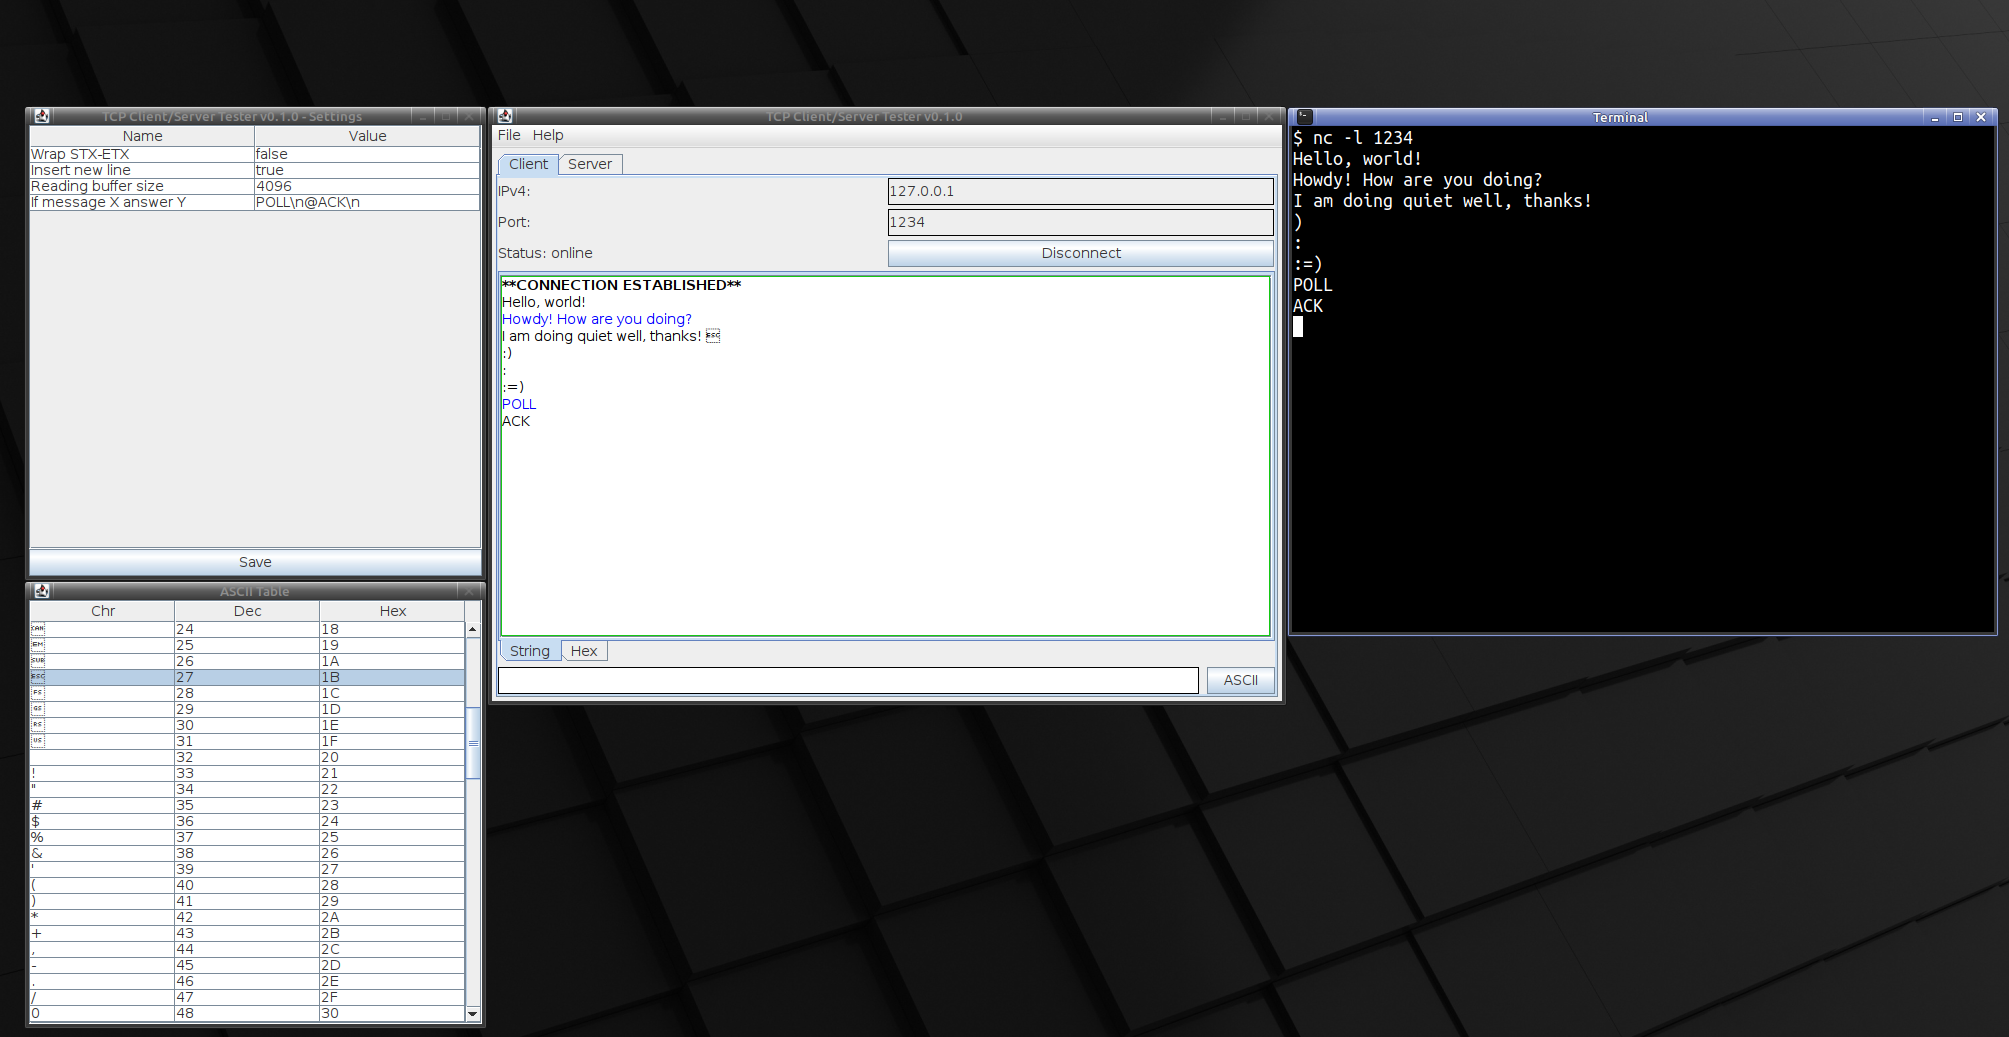
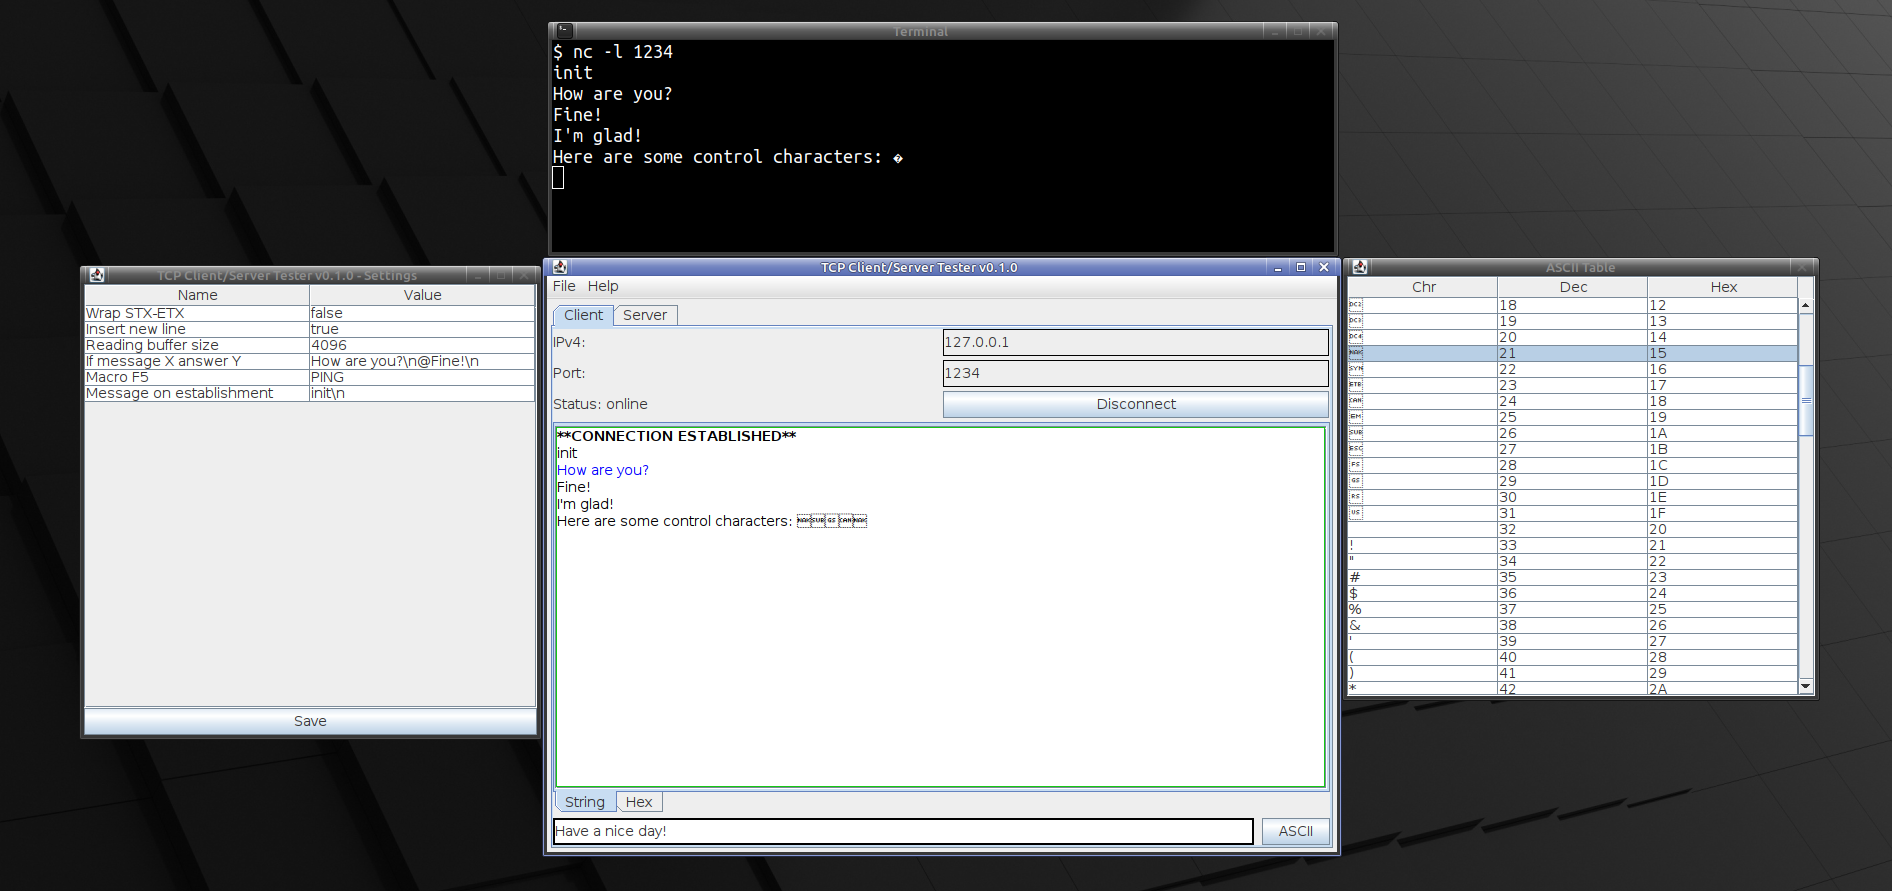
macro and message on connection establishment

diff --git a/src/MainWindow.java b/src/MainWindow.java
@@ -300,6 +300,22 @@ public final class MainWindow {
 
                     hexOutputArea.setBorder(BorderFactory.createLineBorder(new Color(20, 200, 20), 1));
                     appendToPane(hexOutputArea, "**CONNECTION ESTABLISHED**\n", Color.BLACK, true);
+
+                    if (!Settings.msgOnConEst.isEmpty()) {
+                        final String msgOnConEstMod = Settings.msgOnConEst.replaceAll("\\\\n", "\n");
+
+                        clientConHandler.send(msgOnConEstMod);
+                        appendToPane(outputArea, msgOnConEstMod, Color.BLACK, false);
+
+                        for (final char c : msgOnConEstMod.toCharArray()) {
+                            final String hex = String.format("%02X ", new BigInteger(1, new byte[]{(byte) c}));
+                            appendToPane(hexOutputArea, hex, Color.BLACK, false);
+
+                            if (hex.strip().equals("0A")) { // note(nschultz): new line
+                                appendToPane(hexOutputArea, "\n", Color.BLACK, false);
+                            }
+                        }
+                    }
                 }
                 @Override public void onIncomingData(final String data) {
                     appendToPane(outputArea, data, Color.BLUE, false);
@@ -393,6 +409,10 @@ public final class MainWindow {
                 @Override public void keyPressed(final KeyEvent evt) {
                     if (evt.getKeyCode() == KeyEvent.VK_UP) {
                         inputField.setText(MainWindow.this.lastMessage);
+                    } else if (evt.getKeyCode() == KeyEvent.VK_F5) {
+                        // todo(nschultz): This might be a bit hacky
+                        inputField.setText(Settings.macro);
+                        inputField.getActionListeners()[0].actionPerformed(new ActionEvent(this, ActionEvent.ACTION_PERFORMED, null));
                     }
                 }
             });
@@ -527,6 +547,22 @@ public final class MainWindow {
                 @Override public void onNewClient(final Socket client) {
                     appendToPane(outputArea, String.format("**NEW CLIENT: %s**\n", client.getInetAddress()), Color.BLACK, true);
                     appendToPane(hexOutputArea, String.format("**NEW CLIENT: %s**\n", client.getInetAddress()), Color.BLACK, true);
+
+                    if (!Settings.msgOnConEst.isEmpty()) {
+                        final String msgOnConEstMod = Settings.msgOnConEst.replaceAll("\\\\n", "\n");
+
+                        serverConHandler.send(msgOnConEstMod);
+                        appendToPane(outputArea, msgOnConEstMod, Color.BLACK, false);
+
+                        for (final char c : msgOnConEstMod.toCharArray()) {
+                            final String hex = String.format("%02X ", new BigInteger(1, new byte[]{(byte) c}));
+                            appendToPane(hexOutputArea, hex, Color.BLACK, false);
+
+                            if (hex.strip().equals("0A")) { // note(nschultz): new line
+                                appendToPane(hexOutputArea, "\n", Color.BLACK, false);
+                            }
+                        }
+                    }
                 }
                 @Override public void onClientLost(final Socket client) {
                     appendToPane(outputArea, String.format("**LOST CLIENT: %s**\n", client.getInetAddress()), Color.BLACK, true);
@@ -616,6 +652,10 @@ public final class MainWindow {
                 @Override public void keyPressed(final KeyEvent evt) {
                     if (evt.getKeyCode() == KeyEvent.VK_UP) {
                         inputField.setText(MainWindow.this.lastMessage);
+                    } else if (evt.getKeyCode() == KeyEvent.VK_F5) {
+                        // todo(nschultz): This might be a bit hacky
+                        inputField.setText(Settings.macro);
+                        inputField.getActionListeners()[0].actionPerformed(new ActionEvent(this, ActionEvent.ACTION_PERFORMED, null));
                     }
                 }
             });

diff --git a/src/ServerConHandler.java b/src/ServerConHandler.java
@@ -24,7 +24,7 @@ import java.util.logging.*;
 
 public final class ServerConHandler implements Runnable {
 
-    public Callback callback;
+    public Callback callback; // note(nschultz): Gets set after ctor, if not then default callback will be used
 
     private ServerSocket serverSocket = null;
     private Socket theClient          = null;
@@ -55,7 +55,7 @@ public final class ServerConHandler implements Runnable {
             this.serverSocket = new ServerSocket(this.port, maxCons);
             this.callback.onOpen();
 
-            this.theClient = waitForClient();
+            waitForClient();
             if (this.theClient == null) {
                 return;
             }
@@ -76,7 +76,7 @@ public final class ServerConHandler implements Runnable {
                         Main.logger.log(Level.INFO, String.format("Connection has been closed from '%s:%s'", theClient.getInetAddress(), theClient.getPort()));
                         this.callback.onClientLost(this.theClient);
                         closeClient();
-                        this.theClient = waitForClient();
+                        waitForClient();
                         if (this.theClient == null) {
                             // note(nschultz): User has to call 'start()' again
                             return;
@@ -97,27 +97,24 @@ public final class ServerConHandler implements Runnable {
         }
     }
 
-    private Socket waitForClient() {
+    private void waitForClient() {
         assert isOpen();
+        assert !hasClient();
 
-        Socket client = null;
         try {
-            client = this.serverSocket.accept();
+            this.theClient = this.serverSocket.accept();
             // note(nschultz): We do not store the return values because
             // we will call them for each send we are doing. If they then fail at some point
             // we know the connection has been lost.
-            client.getInputStream();
-            client.getOutputStream();
+            this.theClient.getInputStream();
+            this.theClient.getOutputStream();
 
-            this.callback.onNewClient(client);
+            this.callback.onNewClient(this.theClient);
 
         } catch (final IOException ex) {
             Main.logger.log(Level.INFO, String.format("Failed to wait for client on port '%s'", this.port));
             this.callback.onConnectionFailure(ex.getMessage());
-            return null;
         }
-
-        return client;
     }
 
     public void start(final int port) {

diff --git a/src/SettingsWindow.java b/src/SettingsWindow.java
@@ -44,10 +44,12 @@ public final class SettingsWindow {
         final SettingsTableModel model = new SettingsTableModel();
 
         insert_settings: {
-            model.addRow(new Object[]{"Wrap STX-ETX",           String.valueOf(Settings.wrapInStxEtx)});
-            model.addRow(new Object[]{"Insert new line",        String.valueOf(Settings.insertNewLine)});
-            model.addRow(new Object[]{"Reading buffer size",    String.valueOf(Settings.bufSize)});
-            model.addRow(new Object[]{"If message X answer Y",  String.valueOf(Settings.conditionalAnswer)});
+            model.addRow(new Object[]{"Wrap STX-ETX",             String.valueOf(Settings.wrapInStxEtx)});
+            model.addRow(new Object[]{"Insert new line",          String.valueOf(Settings.insertNewLine)});
+            model.addRow(new Object[]{"Reading buffer size",      String.valueOf(Settings.bufSize)});
+            model.addRow(new Object[]{"If message X answer Y",    String.valueOf(Settings.conditionalAnswer)});
+            model.addRow(new Object[]{"Macro F5",                 String.valueOf(Settings.macro)});
+            model.addRow(new Object[]{"Message on establishment", String.valueOf(Settings.msgOnConEst)});
         }
 
         final JTable table = new JTable(model);
@@ -62,6 +64,8 @@ public final class SettingsWindow {
             final boolean newline = Boolean.parseBoolean((String) model.getValueAt(1, 1));
             final int     bufSize = Integer.parseInt((String) model.getValueAt(2, 1));
             final String  cond    = (String) model.getValueAt(3, 1);
+            final String  macro   = (String) model.getValueAt(4, 1);
+            final String  onEst   = (String) model.getValueAt(5, 1);
 
             // note(nschultz): apply settings
             // todo(nschultz): save to file
@@ -69,6 +73,8 @@ public final class SettingsWindow {
             Settings.insertNewLine     = newline;
             Settings.bufSize           = bufSize;
             Settings.conditionalAnswer = cond;
+            Settings.macro             = macro;
+            Settings.msgOnConEst       = onEst;
 
             this.frame.dispose();
         });

diff --git a/src/Settings.java b/src/Settings.java
@@ -22,6 +22,8 @@ public final class Settings {
     public static volatile boolean insertNewLine      = true;
     public static volatile int     bufSize            = 4096; // note(nschultz) a page I guess
     public static volatile String  conditionalAnswer  = "";
+    public static volatile String  macro              = "PING";
+    public static volatile String  msgOnConEst        = "";
 
     private Settings() {
         assert false;
